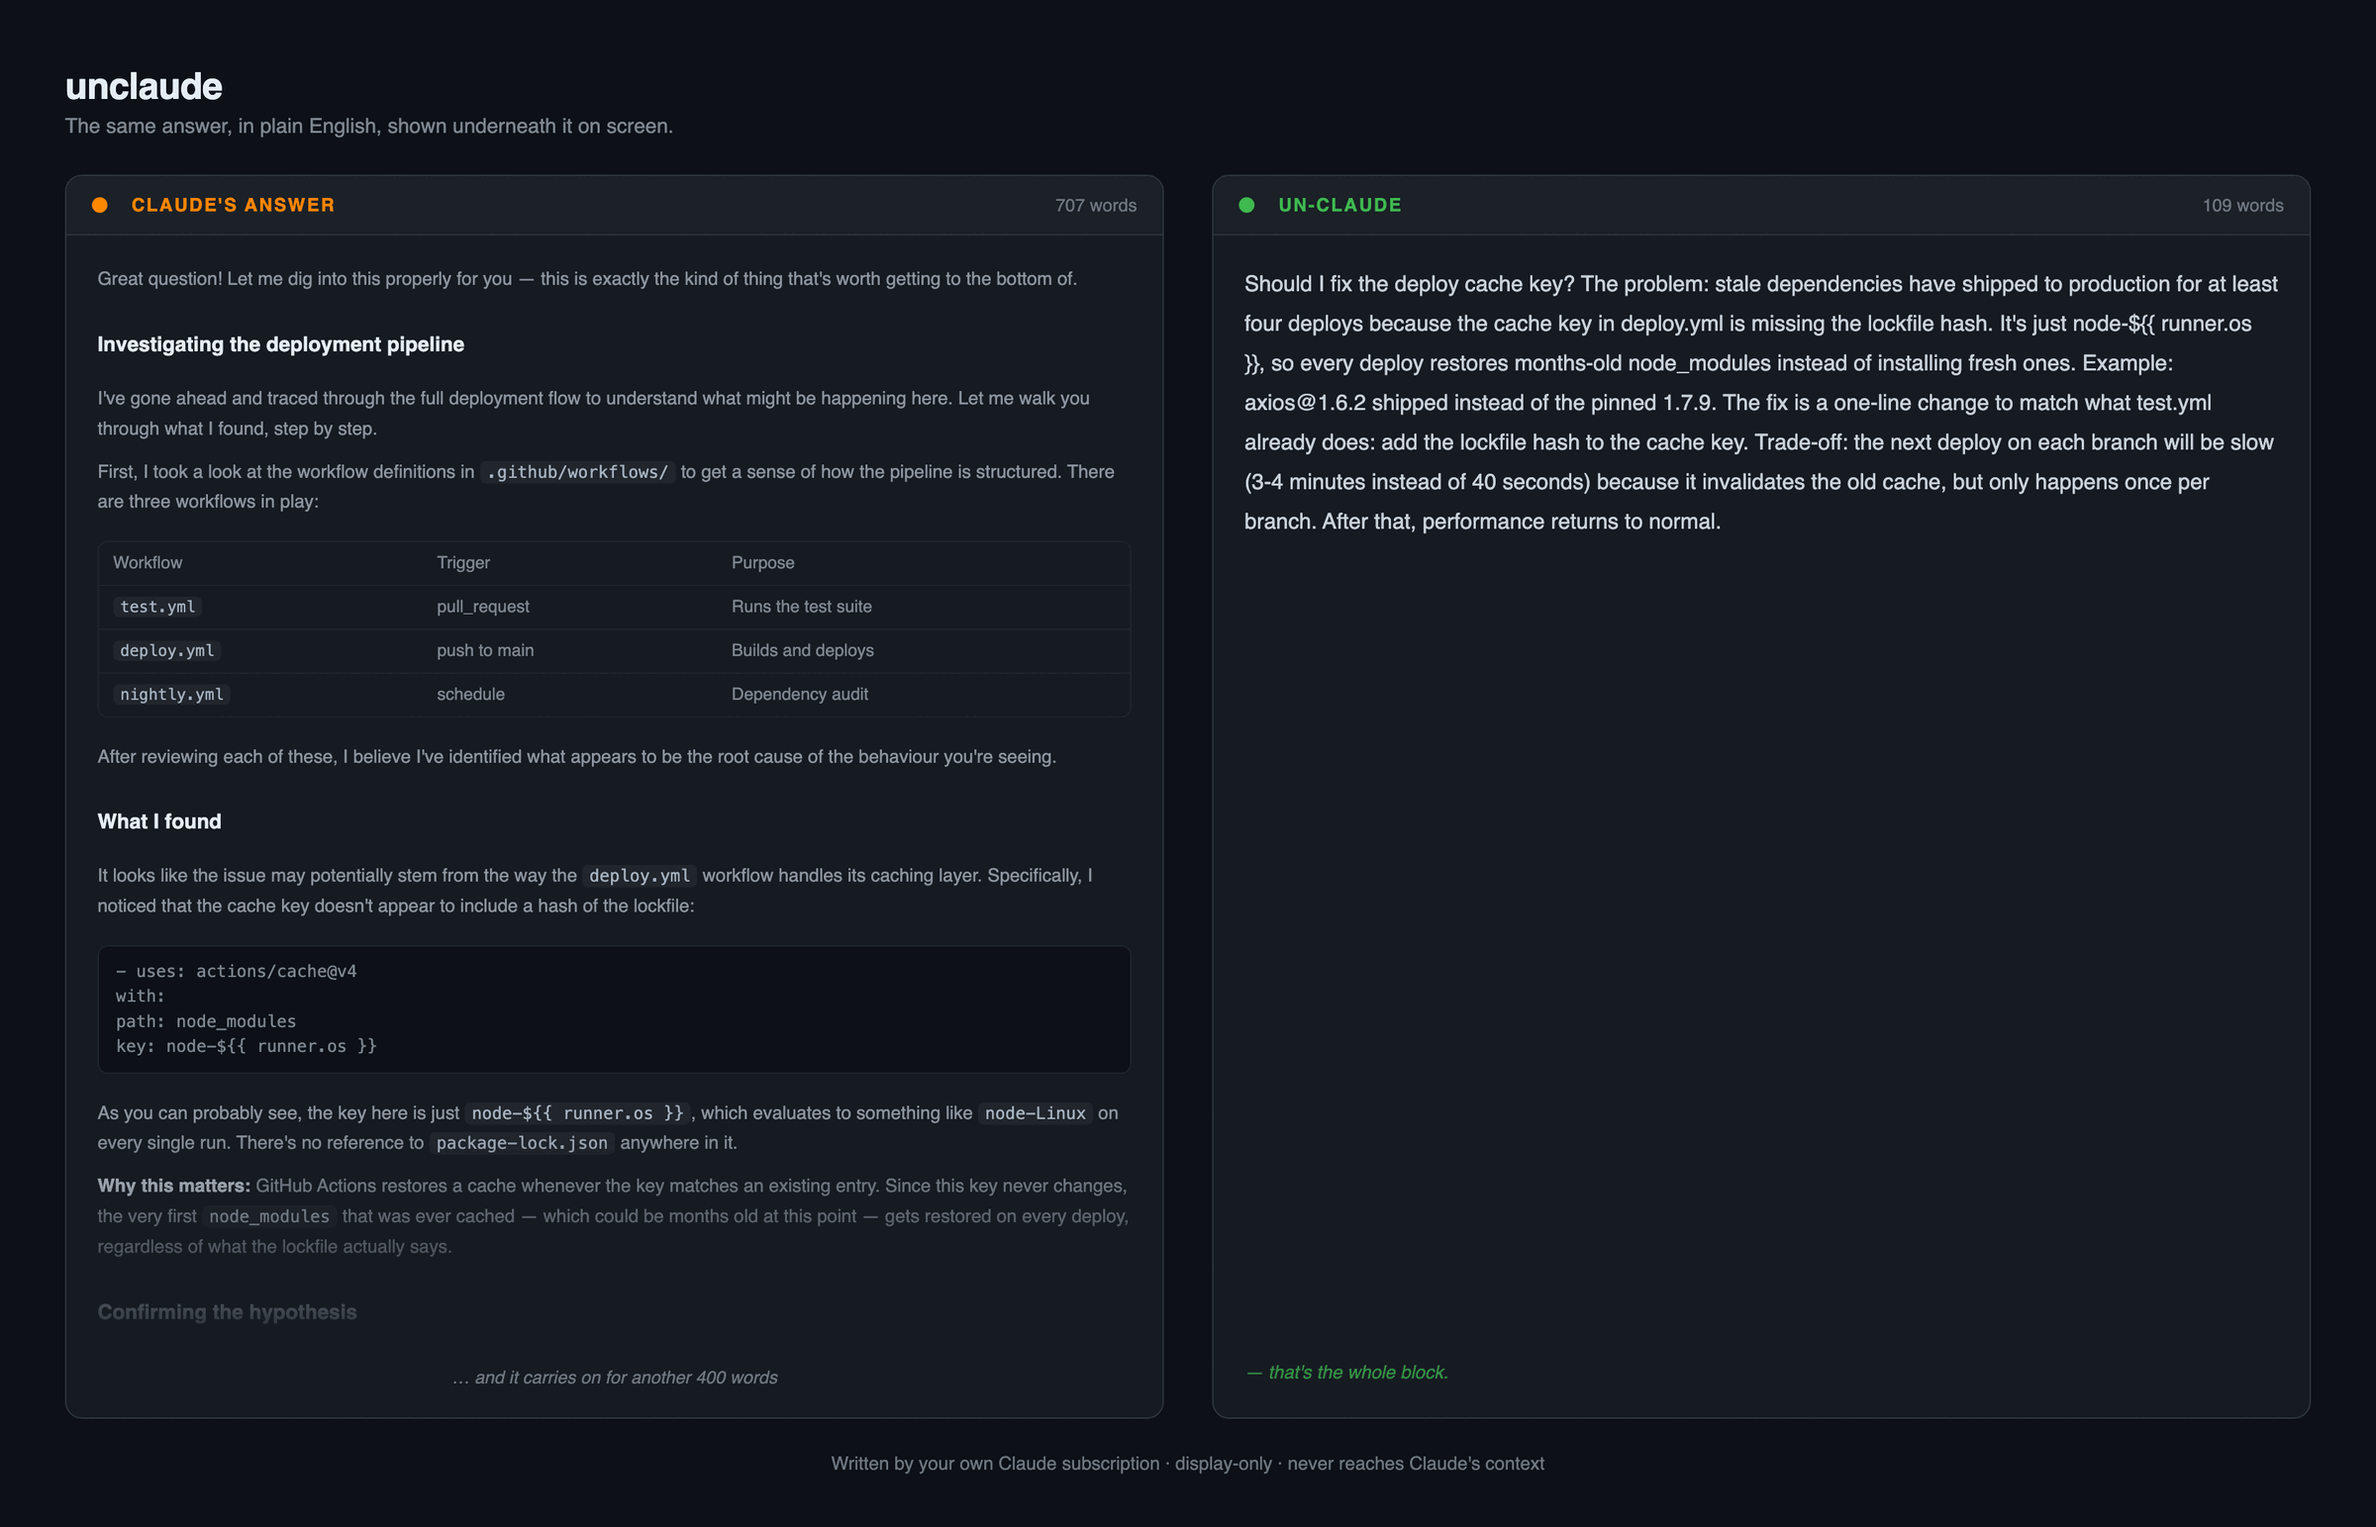
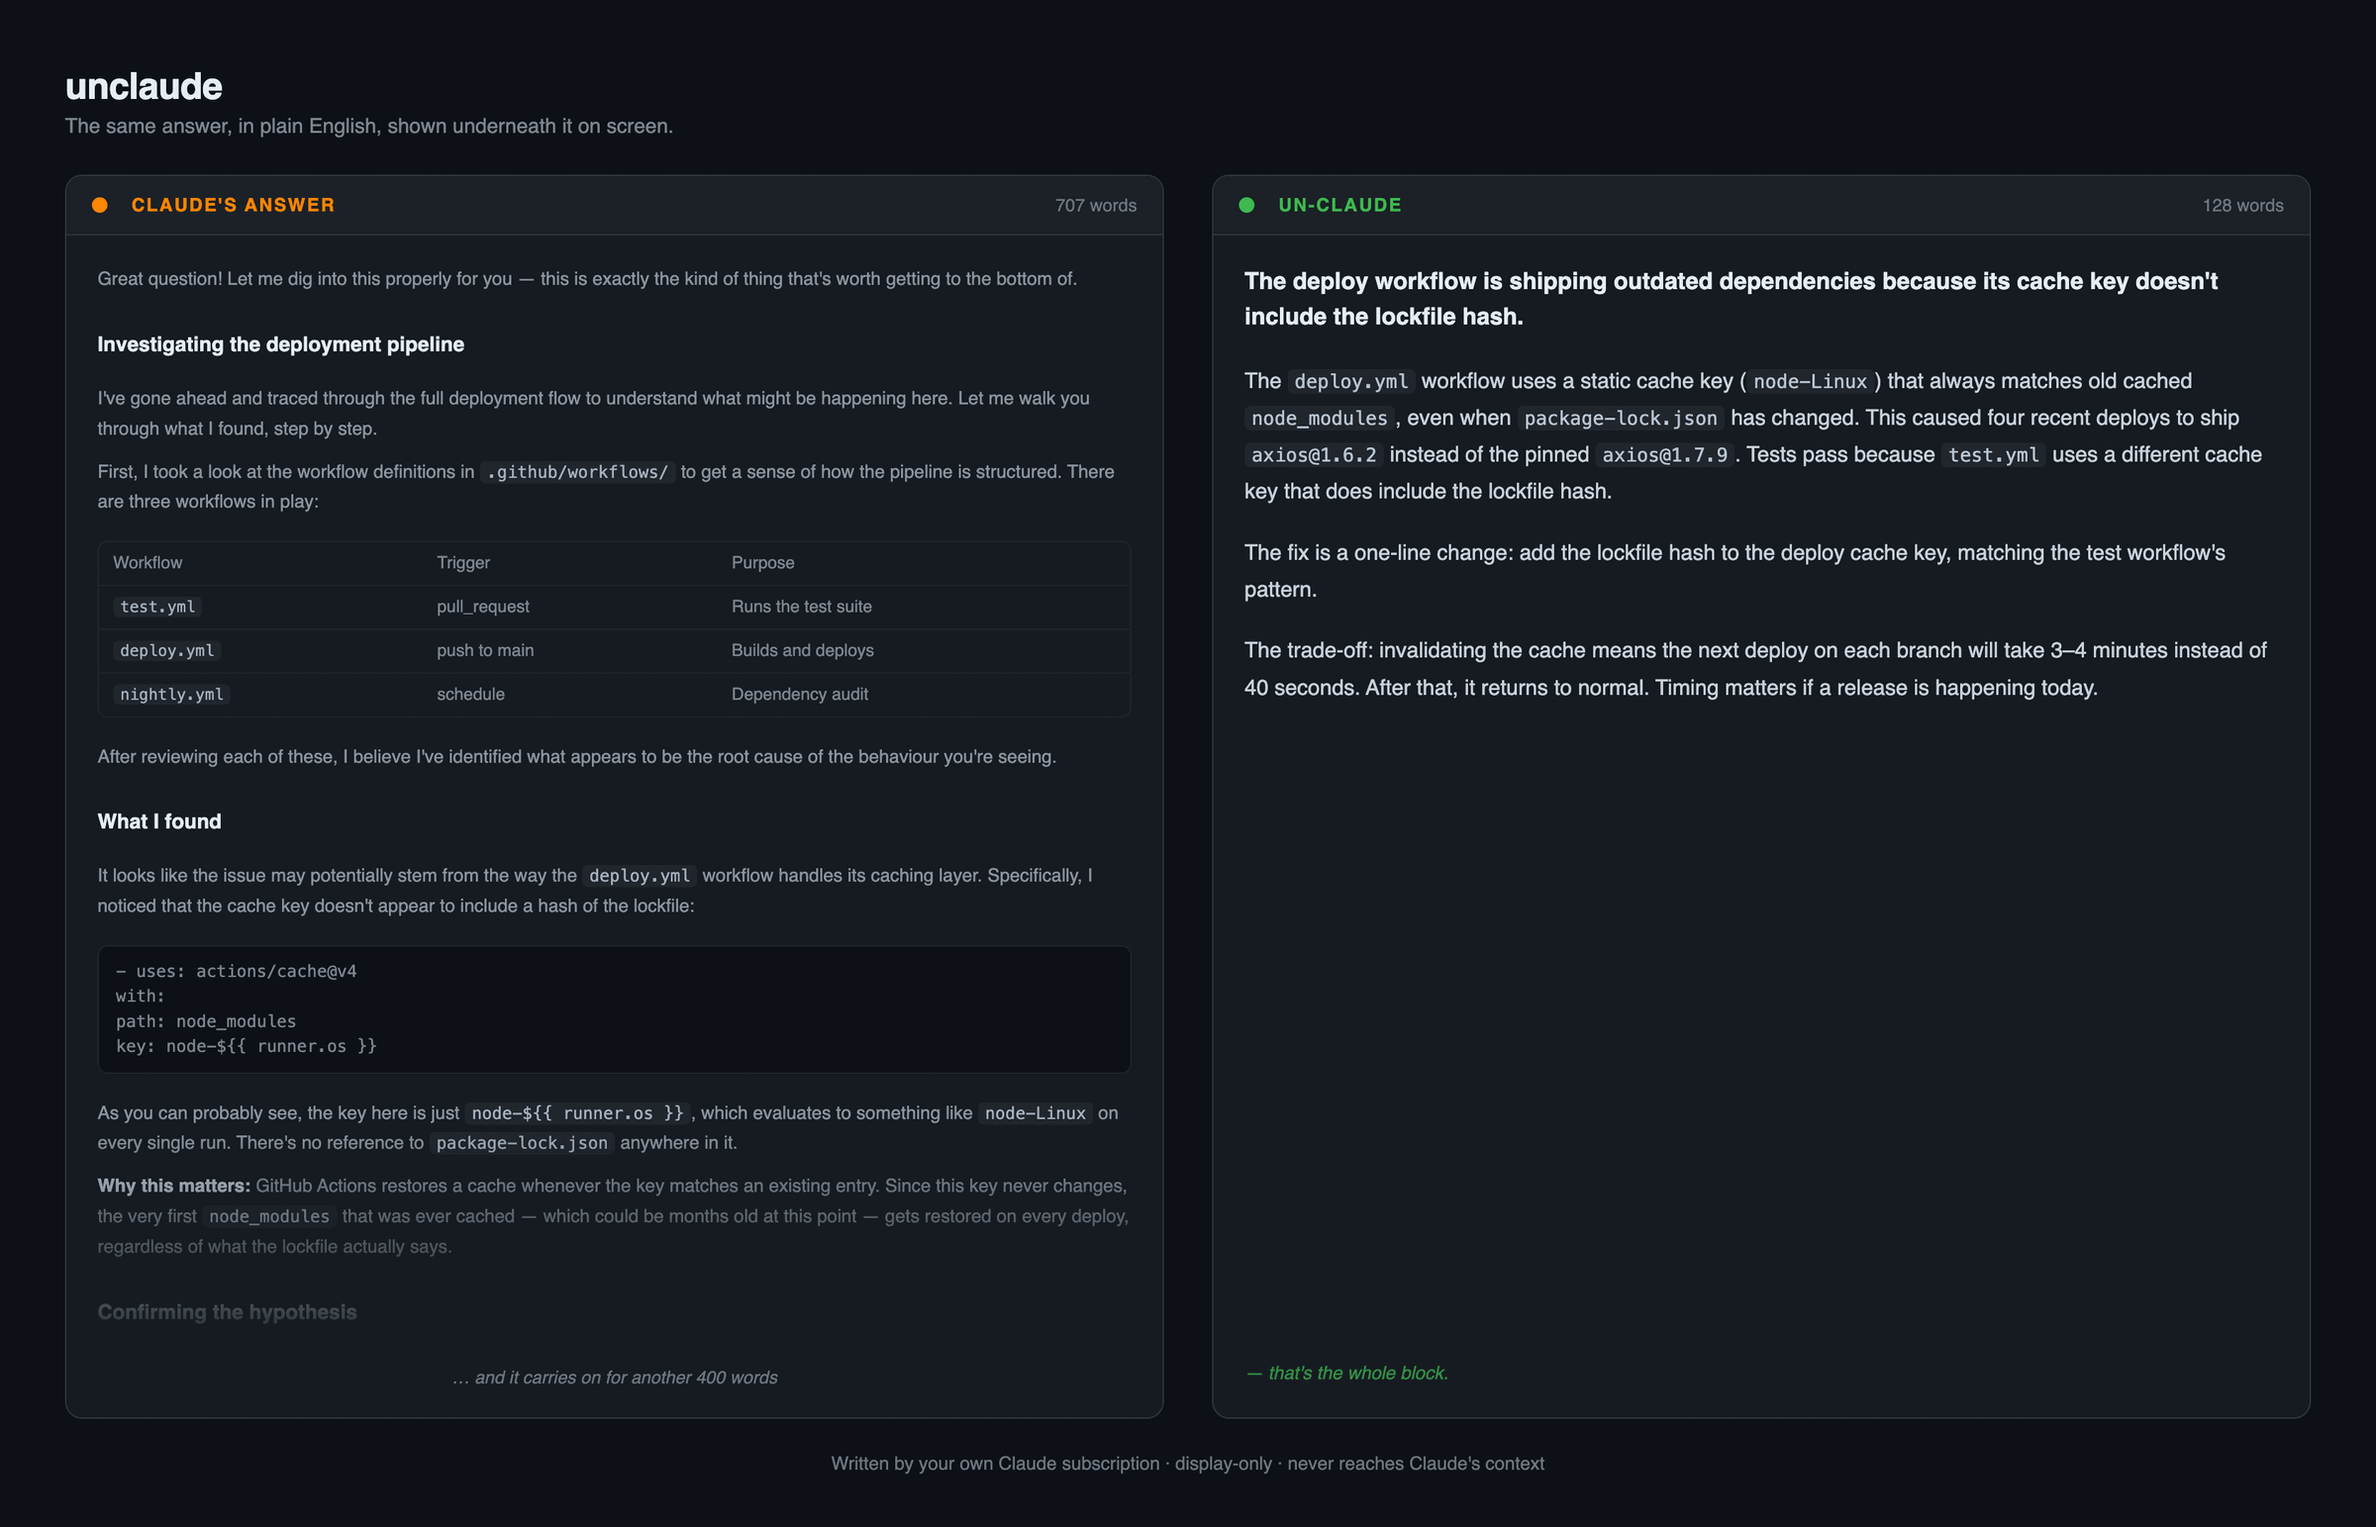
Format the block into paragraphs instead of a wall of text
The rewrite was arriving as one dense paragraph. Correct, and hard to read --
which defeats the point of a plugin whose job is making things readable.

The prompt now asks for a lead sentence on its own line (the question itself,
when the message needs a decision), then two to four short paragraphs with
blank lines between them. It also bans "the assistant" and "this message"
outright, since the model kept narrating in the third person; dropping the word
"assistant" from the framing helped as much as the ban did.

Timeout 20s -> 25s, and the hook entry 30s -> 35s. Structured output is not
measurably slower than flat, but the API's own latency varies a lot: measured
7-9s when quiet and 10-30s when busy, and a 20s ceiling was dropping roughly
one rewrite in three under load. It still fails open, so the cost was a missing
block rather than a broken one, but a block that vanishes when you are busiest
is not much of a feature.

README: drops the text version of the block example, which the image already
shows, and names no particular ticket system in the /unclaude example. The
latency section now gives the real range instead of a best case.

Claude-Session: https://claude.ai/code/session_01SN7sVNb87QMxmth4q28uev

Changed region(s): [[0.5312, 0.1555, 0.9688, 0.4666]]

diff --git a/README.md b/README.md
@@ -57,123 +57,28 @@ Needs Claude Code logged in with a subscription, and Python 3. Nothing to config
 Worth knowing before you install, because it is the one thing you will notice.
 
 Claude's answer streams at full speed exactly as it always has. The block then appears
-underneath it a few seconds later — **usually 5–10 seconds** (7–9s measured on typical
-answers), because a second, small model has to read the finished answer and write the
-rewrite.
+underneath it — **usually 8–15 seconds later**, because a second, small model has to read
+the finished answer and write the rewrite. It is faster when Anthropic's API is quiet
+(7–9s) and slower when it is busy; 20s+ happens.
 
-So you read the answer, and the plain-English version lands shortly after. Nothing is
-held back while it thinks.
+So you read the answer, and the plain-English version lands shortly after. Nothing is held
+back while it thinks.
+
+If the rewrite takes longer than 25 seconds it is abandoned and Claude's original text
+stands on its own. You lose the block, never the answer.
 
 Short messages and messages that are mostly code are skipped entirely, and cost nothing.
 The threshold is tunable — see [Configuration](docs/configuration.md).
 
 ---
 
-## What it looks like
-
-### The block, under an answer
-
-Claude has just spent 707 words explaining why your deploys ship stale dependencies.
-Underneath, you get this:
-
-> Should I fix the deploy cache key? The problem: stale dependencies have shipped to
-> production for at least four deploys because the cache key in deploy.yml is missing the
-> lockfile hash. It's just `node-${{ runner.os }}`, so every deploy restores months-old
-> node_modules instead of installing fresh ones. Example: axios@1.6.2 shipped instead of
-> the pinned 1.7.9. The fix is a one-line change to match what test.yml already does: add
-> the lockfile hash to the cache key. Trade-off: the next deploy on each branch will be
-> slow (3-4 minutes instead of 40 seconds) because it invalidates the old cache, but only
-> happens once per branch. After that, performance returns to normal.
-
-The question at the front is the point. It was in the original too — six hundred words
-down, phrased as "I did want to check in with you before making this change".
-
-<details>
-<summary><b>The 707-word original it was written from</b> (click to expand)</summary>
-
-> Great question! Let me dig into this properly for you — this is exactly the kind of thing that's worth getting to the bottom of.
->
-> **Investigating the deployment pipeline**
->
-> I've gone ahead and traced through the full deployment flow to understand what might be happening here. Let me walk you through what I found, step by step.
->
-> First, I took a look at the workflow definitions in `.github/workflows/` to get a sense of how the pipeline is structured. There are three workflows in play:
->
-> | Workflow | Trigger | Purpose |
-> |---|---|---|
-> | `test.yml` | pull_request | Runs the test suite |
-> | `deploy.yml` | push to main | Builds and deploys |
-> | `nightly.yml` | schedule | Dependency audit |
->
-> After reviewing each of these, I believe I've identified what appears to be the root cause of the behaviour you're seeing.
->
-> **What I found**
->
-> It looks like the issue may potentially stem from the way the `deploy.yml` workflow handles its caching layer. Specifically, I noticed that the cache key doesn't appear to include a hash of the lockfile:
->
-> ```yaml
-> - uses: actions/cache@v4
->   with:
->     path: node_modules
->     key: node-${{ runner.os }}
-> ```
->
-> As you can probably see, the key here is just `node-${{ runner.os }}`, which evaluates to something like `node-Linux` on every single run. There's no reference to `package-lock.json` anywhere in it.
->
-> **Why this matters:** GitHub Actions restores a cache whenever the key matches an existing entry. Since this key never changes, the very first `node_modules` that was ever cached — which could be months old at this point — gets restored on every deploy, regardless of what the lockfile actually says.
->
-> **Confirming the hypothesis**
->
-> To make sure I wasn't jumping to conclusions, I cross-referenced this against the actual deploy logs. Here's what I observed:
->
-> - The last four deploys all shipped with `axios@1.6.2` in the bundle
-> - However, `package-lock.json` has pinned `axios@1.7.9` since the dependency bump in #2841
-> - The cache restore step reports `Cache restored from key: node-Linux` on all four runs
-> - No `npm ci` re-install was triggered, because `node_modules` already existed
->
-> So the evidence does seem to line up with the hypothesis fairly conclusively.
->
-> I should also note — and I think this is important context — that CI itself passes without any issues. This is because `test.yml` uses a completely separate cache key that *does* include the lockfile hash:
->
-> ```yaml
-> key: node-${{ runner.os }}-${{ hashFiles('package-lock.json') }}
-> ```
->
-> That's why this hasn't been caught by the test suite. Only the deploy job is affected, which is arguably the worst possible place for it to happen.
->
-> **Proposed fix**
->
-> The fix would be to bring `deploy.yml` in line with what `test.yml` is already doing:
->
-> ```yaml
-> key: node-${{ runner.os }}-${{ hashFiles('package-lock.json') }}
-> ```
->
-> This is a one-line change and it follows the pattern that's already established elsewhere in the repository, so there shouldn't be any surprises in terms of maintainability.
->
-> **One thing to flag before I proceed**
->
-> That said, I did want to check in with you before making this change, because there's a trade-off worth being aware of.
->
-> Changing the cache key will invalidate every existing cache entry. What that means in practice is that the next deploy on each branch will need to do a full `npm ci` from scratch rather than restoring from cache. Based on the timings I'm seeing in the logs, that's likely to take somewhere in the region of 3-4 minutes, as opposed to the roughly 40 seconds it currently takes.
->
-> This is a one-time cost per branch, and after that first run the cache will be warm again and things should return to normal. But if you have a release going out today, it might be worth timing the change around that.
->
-> **Summary**
->
-> To summarise where things stand: the deploy cache key is missing the lockfile hash, which means stale dependencies have been shipping to production for at least the last four deploys. The fix is a one-line change matching the existing pattern in `test.yml`, with a one-off slower deploy per branch as the cost.
->
-> Let me know if you'd like me to go ahead and make that change, or if you'd prefer to handle the timing differently! Happy to help either way.
-
-</details>
-
-### `/unclaude`, on the way out
+## `/unclaude`, for text on its way out
 
 For text that leaves the session. You did the work; now it has to go somewhere other
 people read.
 
 ```
-Post the summary to the Jira ticket with /unclaude
+Post the summary to the ticket with /unclaude
 ```
 
 What gets posted:

diff --git a/docs/configuration.md b/docs/configuration.md
@@ -36,7 +36,7 @@ All optional, all environment variables.
 | `UNCLAUDE` | — | `0` turns it off for this session |
 | `UNCLAUDE_MIN_CHARS` | `900` | Messages with less prose than this are skipped |
 | `UNCLAUDE_MODEL` | `haiku` | The model that writes the rewrite |
-| `UNCLAUDE_TIMEOUT` | `20` | Seconds before giving up and showing the original |
+| `UNCLAUDE_TIMEOUT` | `25` | Seconds before giving up and showing the original |
 
 ### `UNCLAUDE_MIN_CHARS` is the one that matters
 
